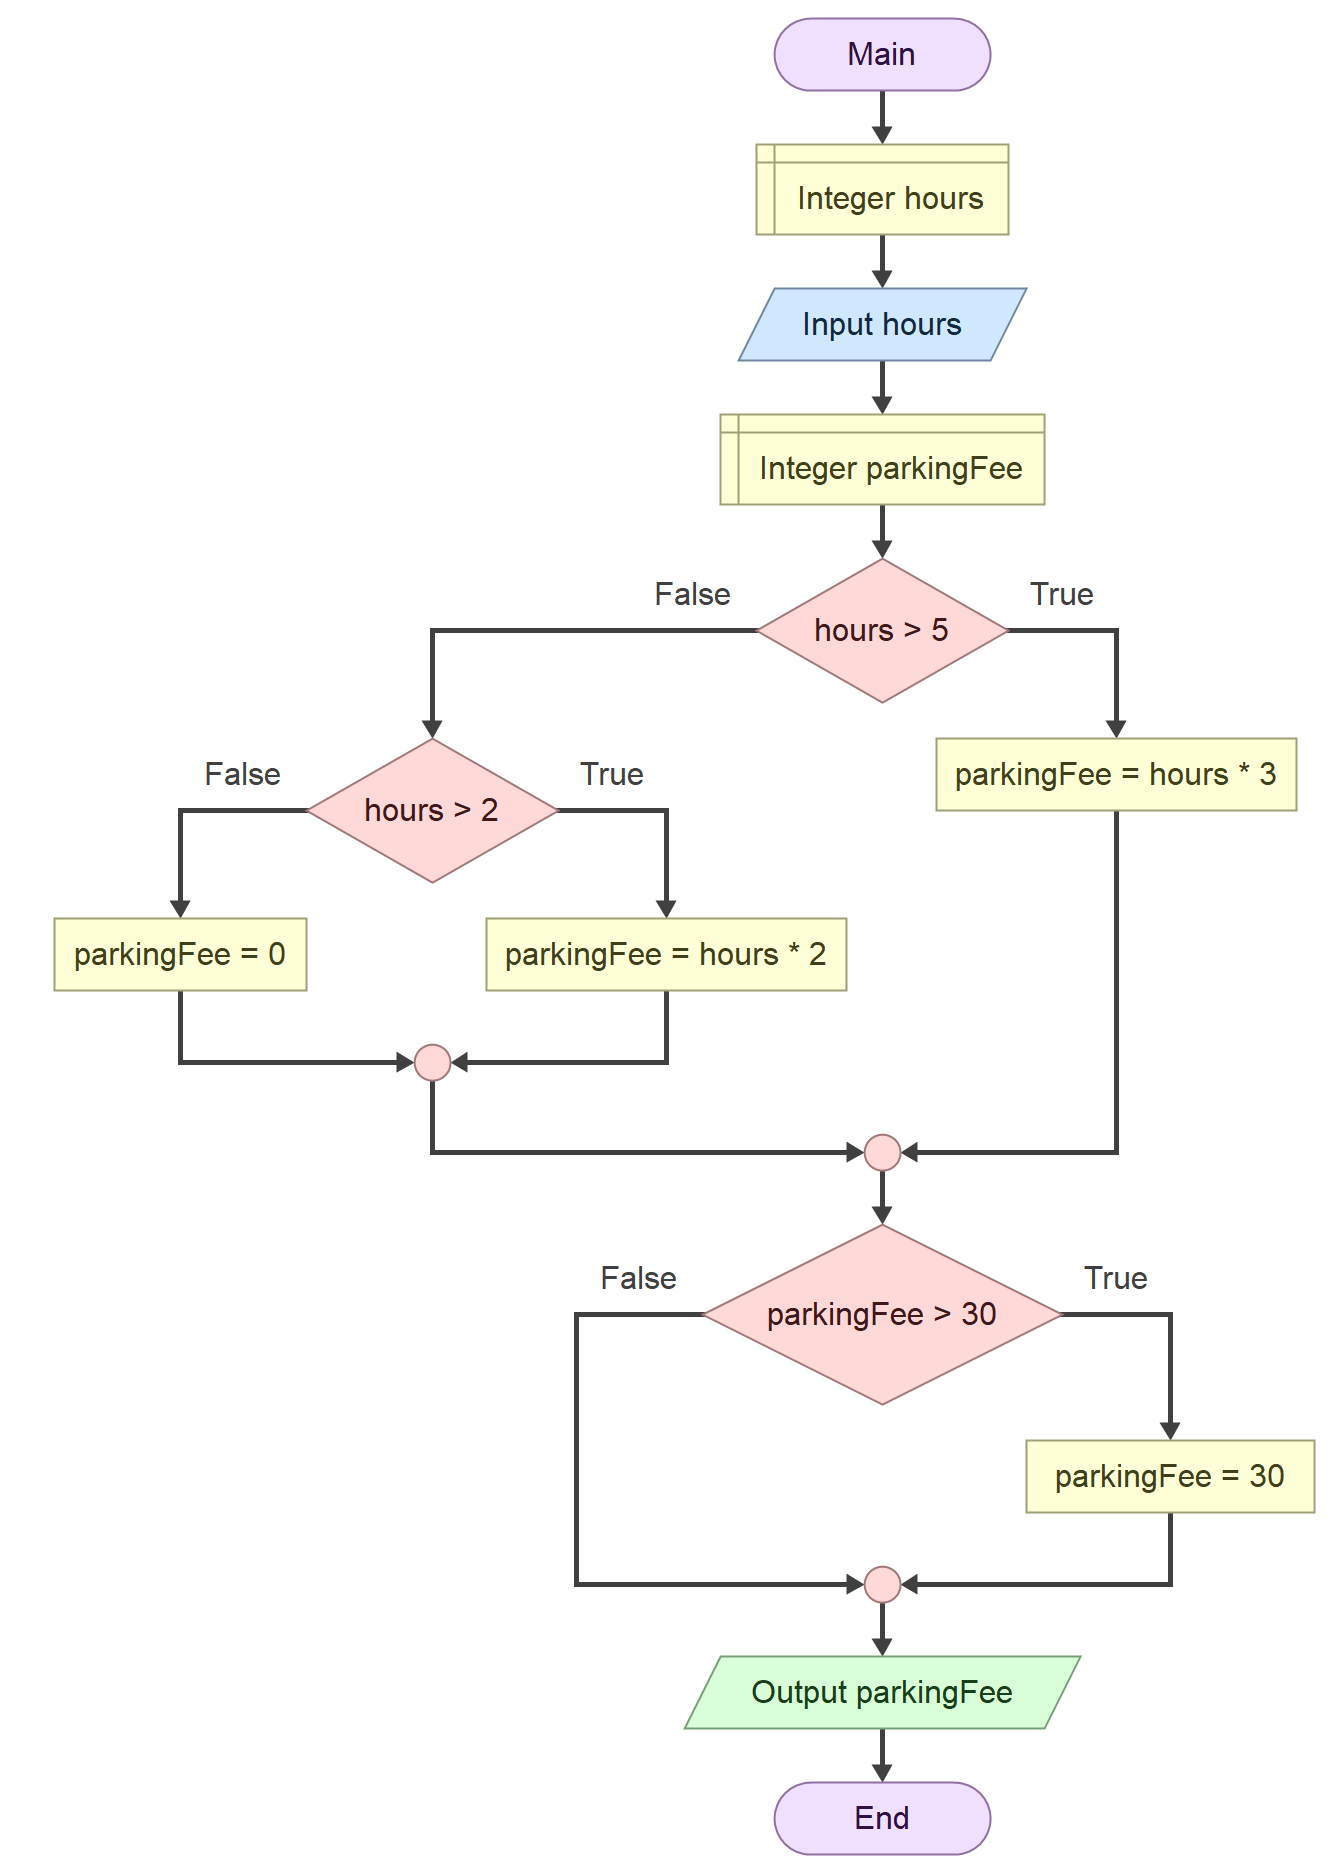
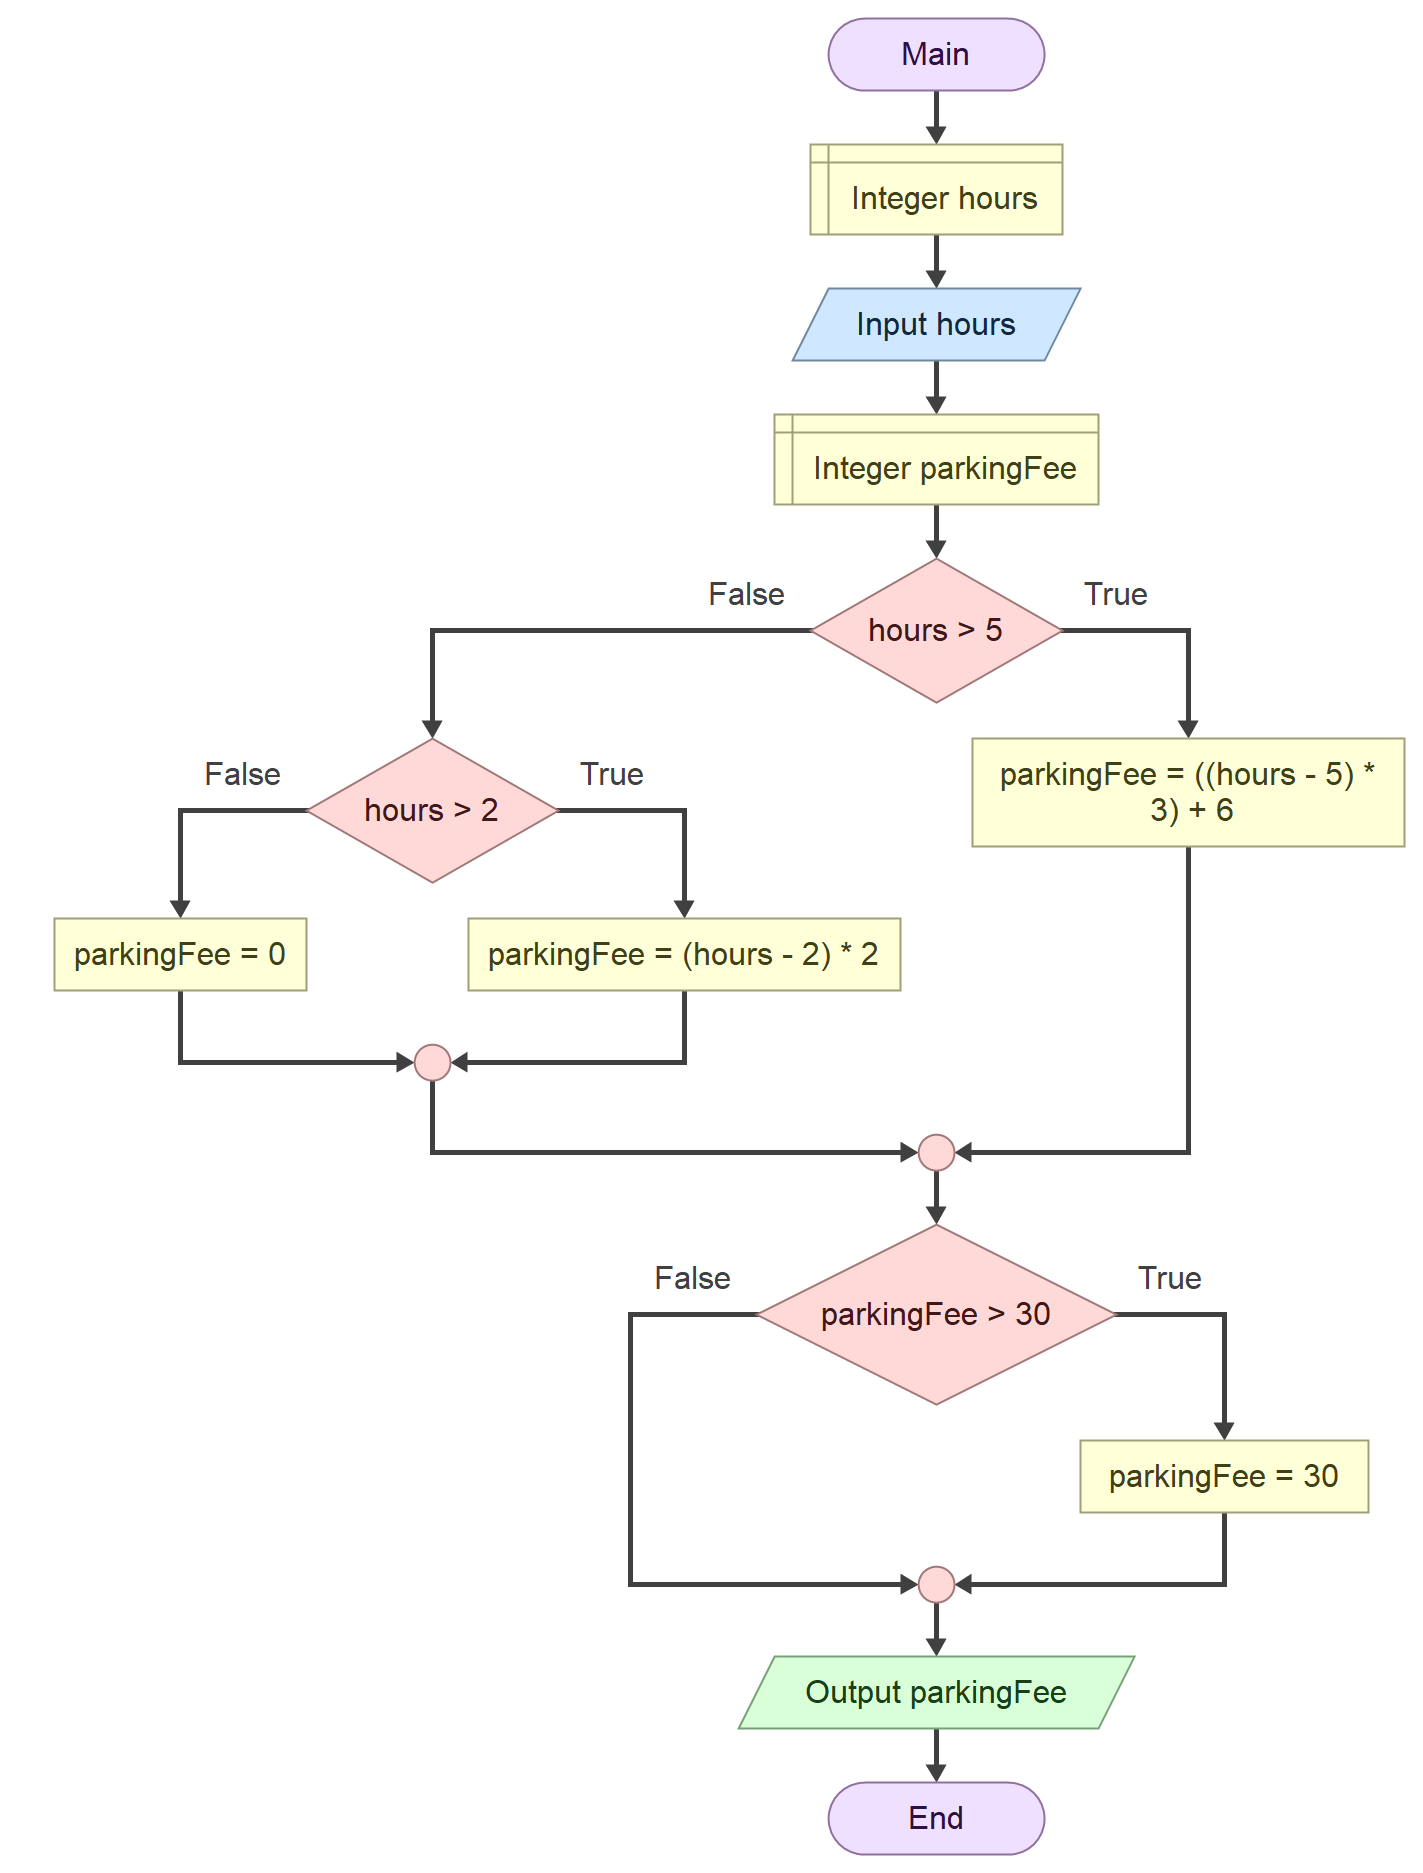
Test exercise 3

diff --git a/labs/lab04/exercise3/lab-4-3.py b/labs/lab04/exercise3/lab-4-3.py
@@ -1,9 +1,9 @@
 hours = int(input())
 if hours > 5:
-    parkingFee = hours * 3
+    parkingFee = hours - 5 * 3 + 6
 else:
     if hours > 2:
-        parkingFee = hours * 2
+        parkingFee = hours - 2 * 2
     else:
         parkingFee = 0
 if parkingFee > 30: